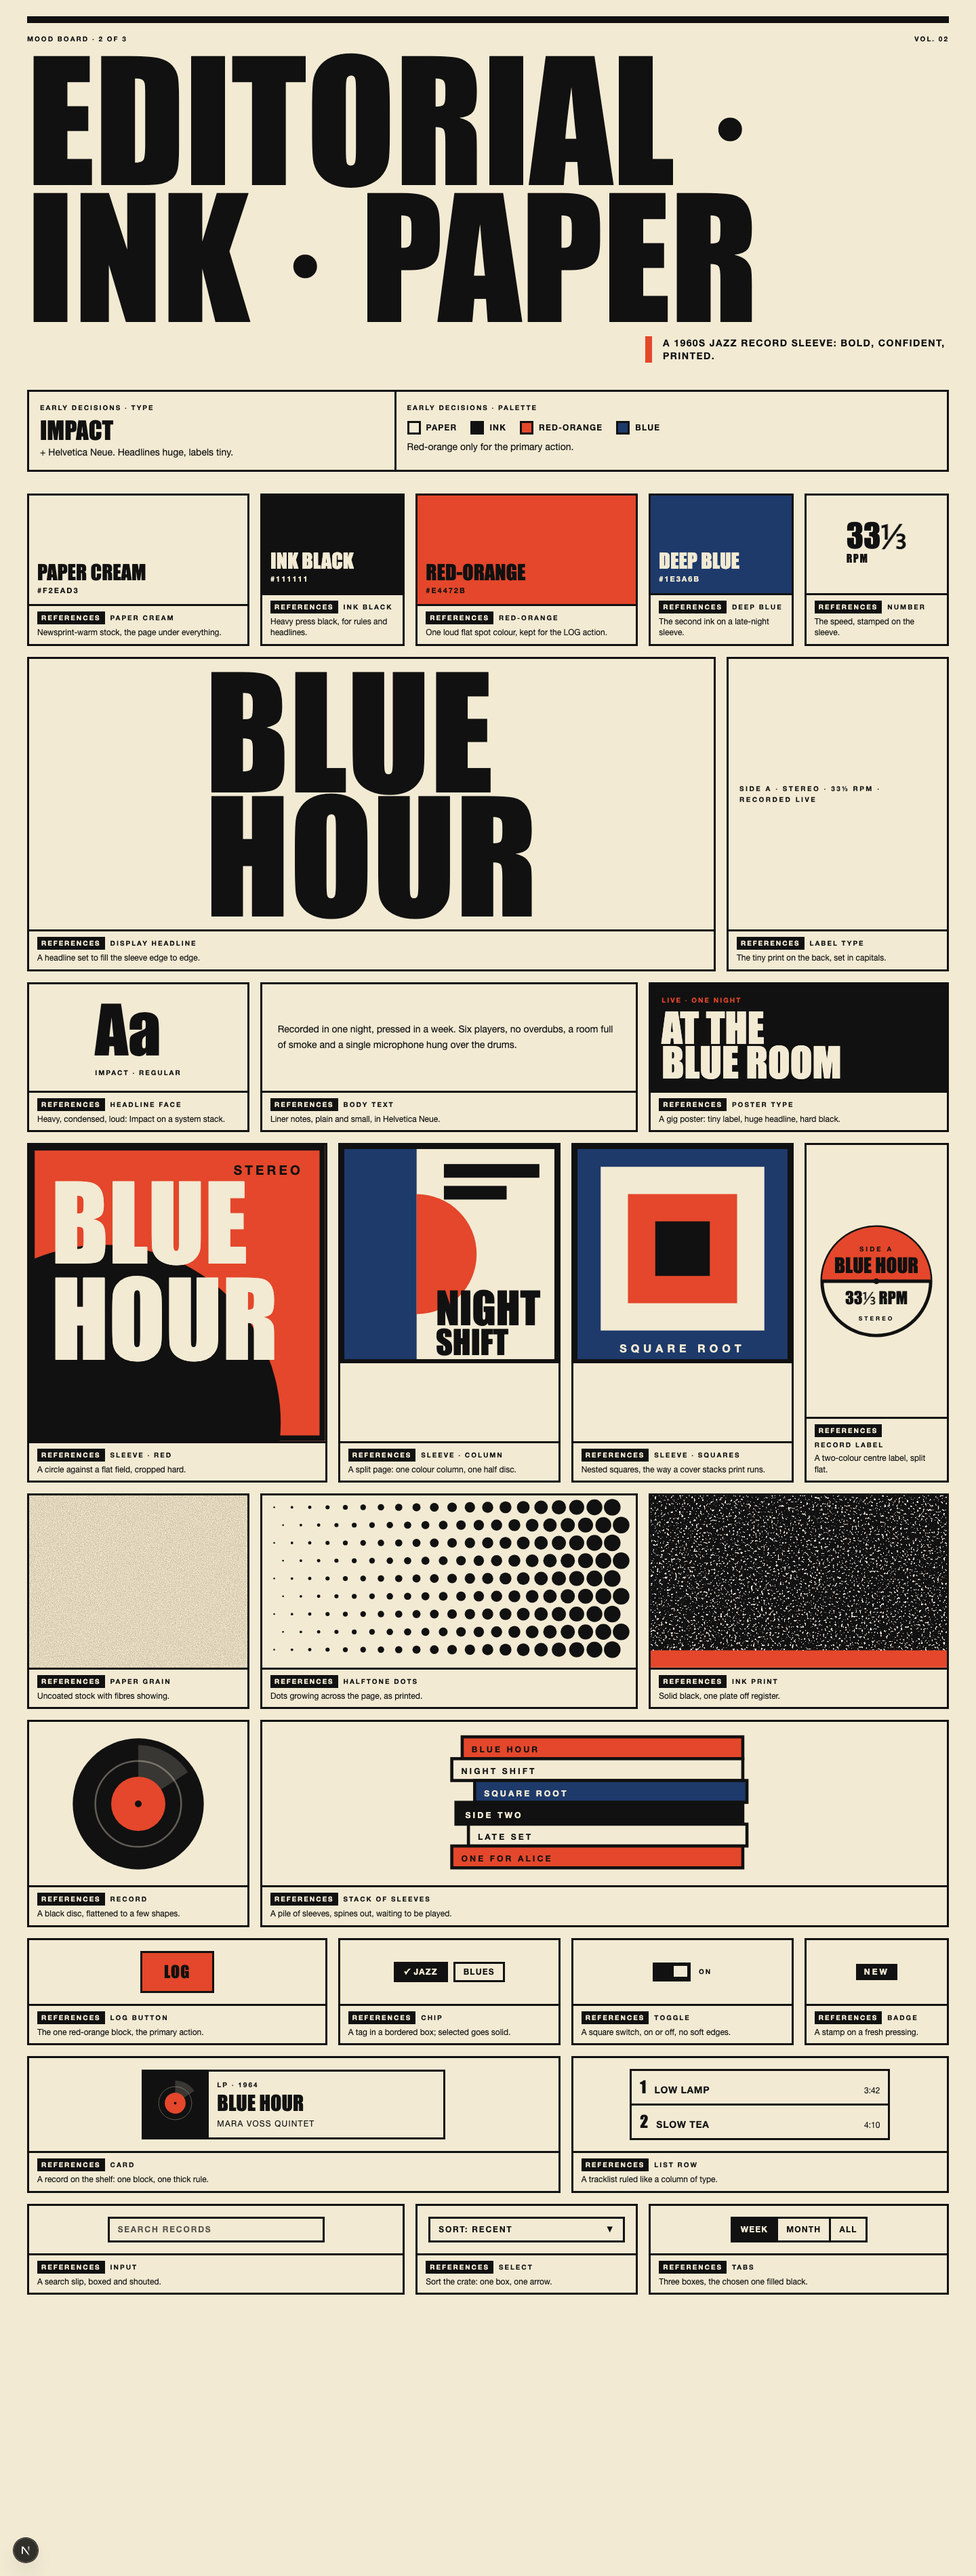
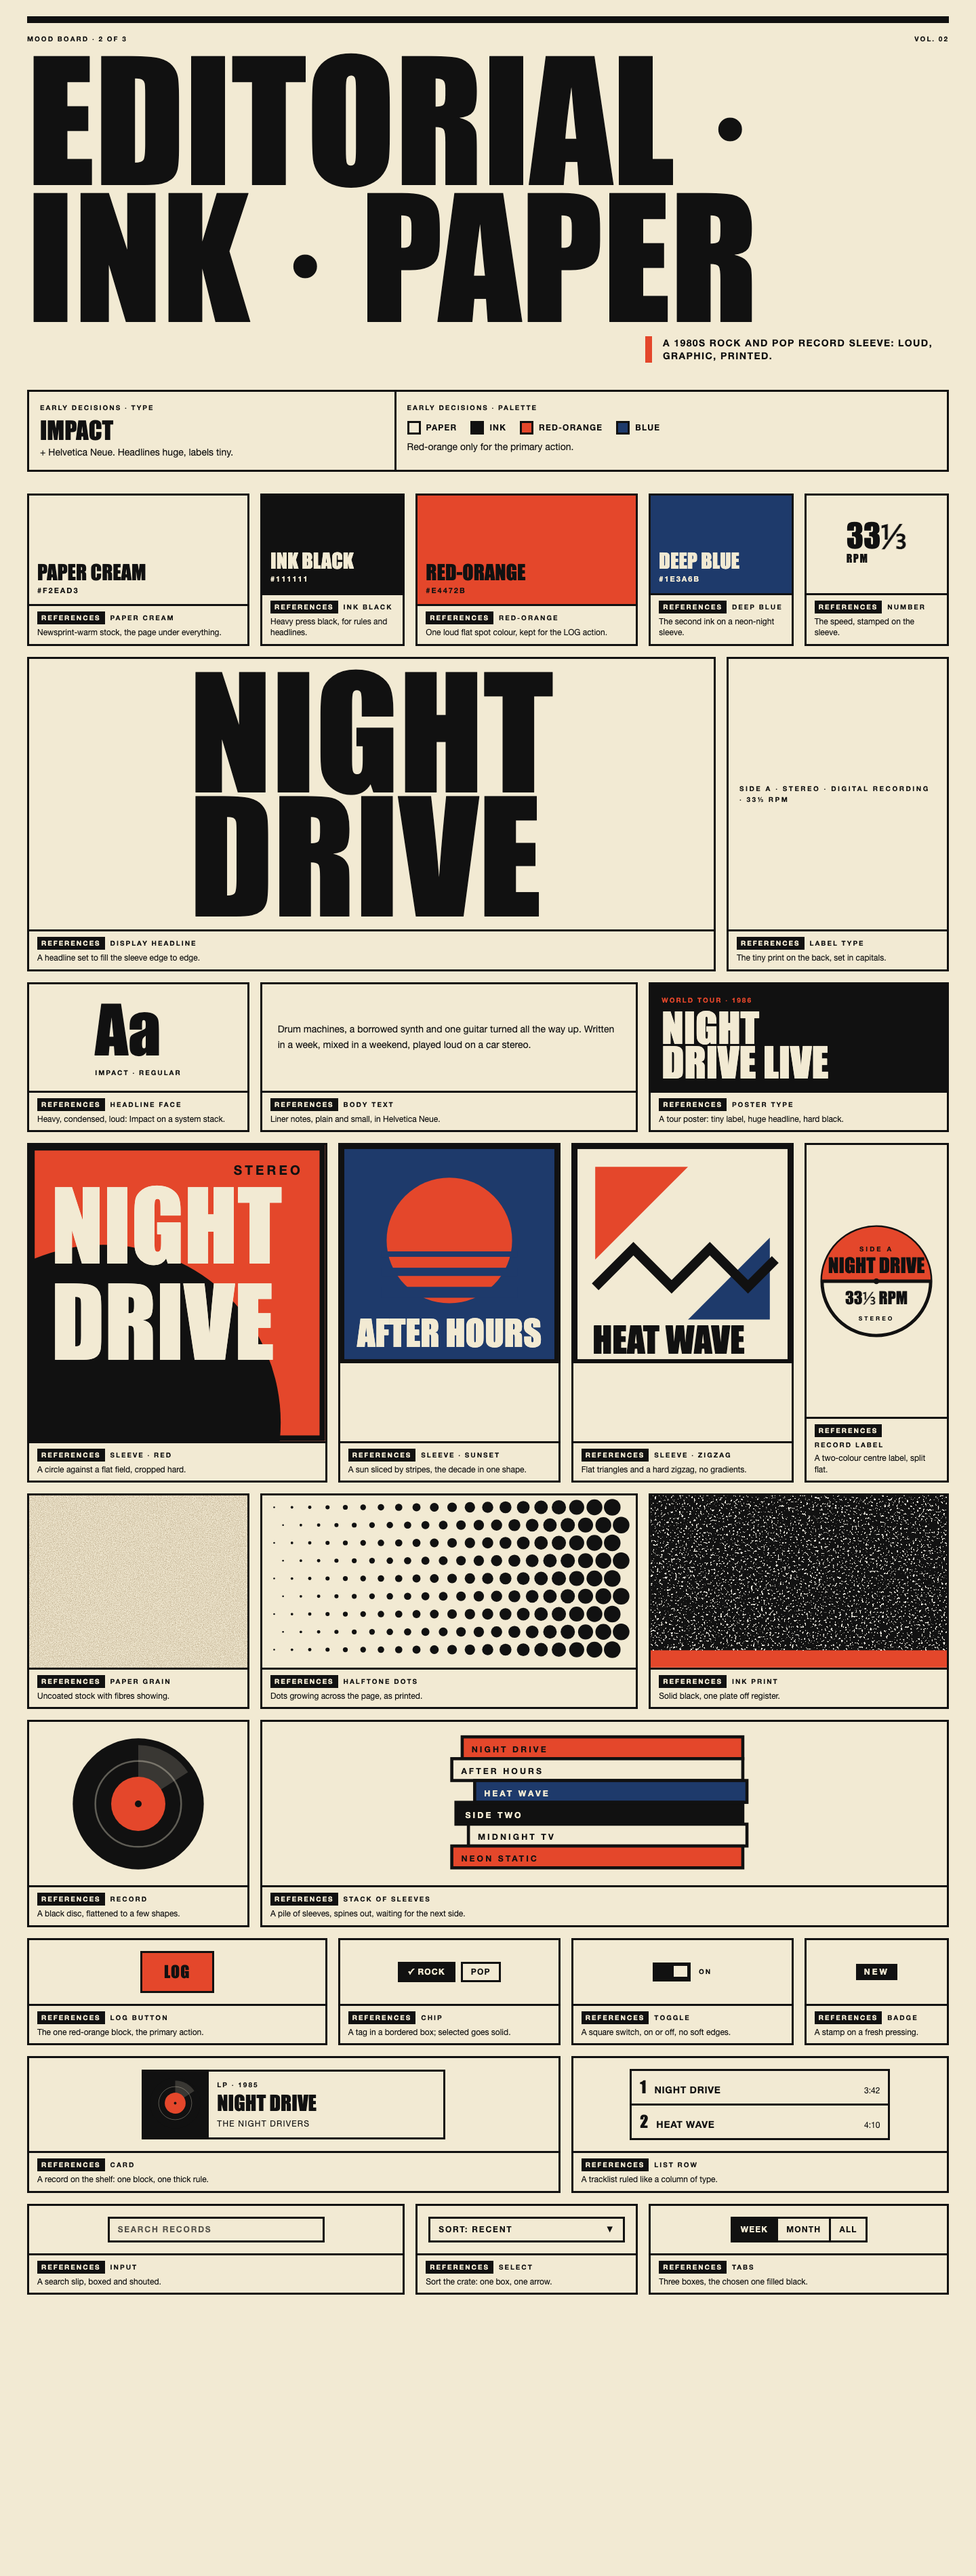
Retheme Editorial mood board to 1980s rock and pop

diff --git a/app/mood-boards/editorial/page.tsx b/app/mood-boards/editorial/page.tsx
@@ -49,7 +49,7 @@ const ARTIFACTS: Artifact[] = [
   swatch("Paper cream", "#F2EAD3", "Newsprint-warm stock, the page under everything.", "bg-paper", false, 3),
   swatch("Ink black", "#111111", "Heavy press black, for rules and headlines.", "bg-press", true, 2),
   swatch("Red-orange", "#E4472B", "One loud flat spot colour, kept for the LOG action.", "bg-signal", false, 3),
-  swatch("Deep blue", "#1E3A6B", "The second ink on a late-night sleeve.", "bg-navy", true, 2),
+  swatch("Deep blue", "#1E3A6B", "The second ink on a neon-night sleeve.", "bg-navy", true, 2),
   {
     name: "Number",
     base: 1,
@@ -69,7 +69,7 @@ const ARTIFACTS: Artifact[] = [
     md: 6,
     xl: 9,
     ref: "A headline set to fill the sleeve edge to edge.",
-    node: <p className="font-display text-[26vw] uppercase leading-[0.82] md:text-[10rem] xl:text-[14rem]">Blue<br />Hour</p>,
+    node: <p className="font-display text-[26vw] uppercase leading-[0.82] md:text-[10rem] xl:text-[14rem]">Night<br />Drive</p>,
   },
   {
     name: "Label type",
@@ -77,7 +77,7 @@ const ARTIFACTS: Artifact[] = [
     md: 3,
     xl: 3,
     ref: "The tiny print on the back, set in capitals.",
-    node: <p className="text-[10px] font-bold uppercase leading-relaxed tracking-[0.25em]">Side A · Stereo · 33⅓ RPM · Recorded live</p>,
+    node: <p className="text-[10px] font-bold uppercase leading-relaxed tracking-[0.25em]">Side A · Stereo · Digital recording · 33⅓ RPM</p>,
   },
   {
     name: "Headline face",
@@ -100,7 +100,7 @@ const ARTIFACTS: Artifact[] = [
     ref: "Liner notes, plain and small, in Helvetica Neue.",
     node: (
       <p className="max-w-prose text-sm leading-relaxed">
-        Recorded in one night, pressed in a week. Six players, no overdubs, a room full of smoke and a single microphone hung over the drums.
+        Drum machines, a borrowed synth and one guitar turned all the way up. Written in a week, mixed in a weekend, played loud on a car stereo.
       </p>
     ),
   },
@@ -109,24 +109,24 @@ const ARTIFACTS: Artifact[] = [
     base: 2,
     md: 3,
     xl: 4,
-    ref: "A gig poster: tiny label, huge headline, hard black.",
+    ref: "A tour poster: tiny label, huge headline, hard black.",
     bg: "bg-press text-paper",
     node: (
       <div className="w-full">
-        <p className={`${label} text-signal`}>Live · One night</p>
-        <p className="mt-2 font-display text-6xl uppercase leading-[0.85]">At the<br />Blue Room</p>
+        <p className={`${label} text-signal`}>World tour · 1986</p>
+        <p className="mt-2 font-display text-6xl uppercase leading-[0.85]">Night<br />Drive Live</p>
       </div>
     ),
   },
   { name: "Sleeve · Red", base: 1, md: 3, xl: 4, ref: "A circle against a flat field, cropped hard.", bare: true, node: <SleeveRed /> },
-  { name: "Sleeve · Column", base: 1, md: 3, xl: 3, ref: "A split page: one colour column, one half disc.", bare: true, node: <SleeveBlue /> },
-  { name: "Sleeve · Squares", base: 1, md: 3, xl: 3, ref: "Nested squares, the way a cover stacks print runs.", bare: true, node: <SleeveSquares /> },
+  { name: "Sleeve · Sunset", base: 1, md: 3, xl: 3, ref: "A sun sliced by stripes, the decade in one shape.", bare: true, node: <SleeveBlue /> },
+  { name: "Sleeve · Zigzag", base: 1, md: 3, xl: 3, ref: "Flat triangles and a hard zigzag, no gradients.", bare: true, node: <SleeveSquares /> },
   { name: "Record label", base: 1, md: 3, xl: 2, ref: "A two-colour centre label, split flat.", node: <RecordLabel /> },
   { name: "Paper grain", base: 2, md: 3, xl: 3, ref: "Uncoated stock with fibres showing.", bare: true, node: <PaperGrain /> },
   { name: "Halftone dots", base: 2, md: 3, xl: 5, ref: "Dots growing across the page, as printed.", bare: true, node: <Halftone /> },
   { name: "Ink print", base: 2, md: 3, xl: 4, ref: "Solid black, one plate off register.", bare: true, node: <InkPrint /> },
   { name: "Record", base: 2, md: 3, xl: 3, ref: "A black disc, flattened to a few shapes.", node: <FlatRecord /> },
-  { name: "Stack of sleeves", base: 2, md: 6, xl: 9, ref: "A pile of sleeves, spines out, waiting to be played.", node: <SleeveStack /> },
+  { name: "Stack of sleeves", base: 2, md: 6, xl: 9, ref: "A pile of sleeves, spines out, waiting for the next side.", node: <SleeveStack /> },
   {
     name: "LOG button",
     base: 2,
@@ -147,8 +147,8 @@ const ARTIFACTS: Artifact[] = [
     ref: "A tag in a bordered box; selected goes solid.",
     node: (
       <div className="flex flex-wrap gap-2">
-        <span className="border-[3px] border-press bg-press px-3 py-1 text-xs font-black uppercase tracking-widest text-paper">✓ Jazz</span>
-        <span className="border-[3px] border-press px-3 py-1 text-xs font-black uppercase tracking-widest">Blues</span>
+        <span className="border-[3px] border-press bg-press px-3 py-1 text-xs font-black uppercase tracking-widest text-paper">✓ Rock</span>
+        <span className="border-[3px] border-press px-3 py-1 text-xs font-black uppercase tracking-widest">Pop</span>
       </div>
     ),
   },
@@ -187,9 +187,9 @@ const ARTIFACTS: Artifact[] = [
           <FlatRecord />
         </div>
         <div className="p-3">
-          <p className={label}>LP · 1964</p>
-          <p className="mt-1 font-display text-3xl uppercase leading-none">Blue Hour</p>
-          <p className="mt-2 text-xs uppercase tracking-widest">Mara Voss Quintet</p>
+          <p className={label}>LP · 1985</p>
+          <p className="mt-1 font-display text-3xl uppercase leading-none">Night Drive</p>
+          <p className="mt-2 text-xs uppercase tracking-widest">The Night Drivers</p>
         </div>
       </div>
     ),
@@ -203,8 +203,8 @@ const ARTIFACTS: Artifact[] = [
     node: (
       <ul className="w-full max-w-sm border-[3px] border-press">
         {[
-          ["1", "Low Lamp", "3:42"],
-          ["2", "Slow Tea", "4:10"],
+          ["1", "Night Drive", "3:42"],
+          ["2", "Heat Wave", "4:10"],
         ].map(([n, t, d]) => (
           <li key={n} className="flex items-baseline gap-3 border-b-[3px] border-press px-3 py-2 last:border-b-0">
             <span className="font-display text-2xl">{n}</span>
@@ -265,7 +265,7 @@ export default function EditorialMoodBoard() {
             Editorial · Ink · Paper
           </h1>
           <p className="mt-4 max-w-md border-l-[10px] border-signal pl-4 text-sm font-bold uppercase leading-snug tracking-widest md:ml-auto md:mr-0">
-            A 1960s jazz record sleeve: bold, confident, printed.
+            A 1980s rock and pop record sleeve: loud, graphic, printed.
           </p>
         </header>
 

diff --git a/app/mood-boards/editorial/art.tsx b/app/mood-boards/editorial/art.tsx
@@ -6,11 +6,11 @@ const PLAIN = "'Helvetica Neue', Arial, sans-serif";
 
 export function SleeveRed() {
   return (
-    <svg viewBox="0 0 160 160" className="w-full" role="img" aria-label="Original sleeve: red field, black circle, BLUE HOUR in cream">
+    <svg viewBox="0 0 160 160" className="w-full" role="img" aria-label="Original sleeve: red field, black circle, NIGHT DRIVE in cream">
       <rect width="160" height="160" fill={E.red} />
       <circle cx="40" cy="150" r="96" fill={E.ink} />
-      <text x="12" y="64" fontFamily={DISPLAY} fontSize="56" fill={E.paper}>BLUE</text>
-      <text x="12" y="116" fontFamily={DISPLAY} fontSize="56" fill={E.paper}>HOUR</text>
+      <text x="12" y="64" fontFamily={DISPLAY} fontSize="52" fill={E.paper}>NIGHT</text>
+      <text x="12" y="116" fontFamily={DISPLAY} fontSize="52" fill={E.paper}>DRIVE</text>
       <text x="148" y="16" textAnchor="end" fontFamily={PLAIN} fontWeight="700" fontSize="7" letterSpacing="1.5" fill={E.ink}>STEREO</text>
       <rect x="1.5" y="1.5" width="157" height="157" fill="none" stroke={E.ink} strokeWidth="3" />
     </svg>
@@ -19,14 +19,13 @@ export function SleeveRed() {
 
 export function SleeveBlue() {
   return (
-    <svg viewBox="0 0 160 160" className="w-full" role="img" aria-label="Original sleeve: blue column, red half circle, NIGHT SHIFT">
-      <rect width="160" height="160" fill={E.paper} />
-      <rect width="56" height="160" fill={E.blue} />
-      <path d="M56 36 A44 44 0 0 1 56 124 Z" fill={E.red} />
-      <rect x="76" y="14" width="70" height="10" fill={E.ink} />
-      <rect x="76" y="30" width="46" height="10" fill={E.ink} />
-      <text x="70" y="132" fontFamily={DISPLAY} fontSize="32" fill={E.ink}>NIGHT</text>
-      <text x="70" y="154" fontFamily={DISPLAY} fontSize="24" fill={E.ink}>SHIFT</text>
+    <svg viewBox="0 0 160 160" className="w-full" role="img" aria-label="Original sleeve: red sun cut by stripes on blue, AFTER HOURS">
+      <rect width="160" height="160" fill={E.blue} />
+      <circle cx="80" cy="70" r="46" fill={E.red} />
+      <rect x="30" y="78" width="100" height="4" fill={E.blue} />
+      <rect x="30" y="90" width="100" height="6" fill={E.blue} />
+      <rect x="30" y="104" width="100" height="8" fill={E.blue} />
+      <text x="80" y="148" textAnchor="middle" fontFamily={DISPLAY} fontSize="26" fill={E.paper}>AFTER HOURS</text>
       <rect x="1.5" y="1.5" width="157" height="157" fill="none" stroke={E.ink} strokeWidth="3" />
     </svg>
   );
@@ -34,12 +33,12 @@ export function SleeveBlue() {
 
 export function SleeveSquares() {
   return (
-    <svg viewBox="0 0 160 160" className="w-full" role="img" aria-label="Original sleeve: nested squares, SQUARE ROOT">
-      <rect width="160" height="160" fill={E.blue} />
-      <rect x="20" y="16" width="120" height="120" fill={E.paper} />
-      <rect x="40" y="36" width="80" height="80" fill={E.red} />
-      <rect x="60" y="56" width="40" height="40" fill={E.ink} />
-      <text x="80" y="152" textAnchor="middle" fontFamily={PLAIN} fontWeight="700" fontSize="8" letterSpacing="3" fill={E.paper}>SQUARE ROOT</text>
+    <svg viewBox="0 0 160 160" className="w-full" role="img" aria-label="Original sleeve: triangles and a zigzag, HEAT WAVE">
+      <rect width="160" height="160" fill={E.paper} />
+      <polygon points="16,16 84,16 16,84" fill={E.red} />
+      <polygon points="144,128 84,128 144,68" fill={E.blue} />
+      <polyline points="16,104 44,76 72,104 100,76 128,104 148,84" fill="none" stroke={E.ink} strokeWidth="7" strokeLinejoin="miter" />
+      <text x="14" y="153" fontFamily={DISPLAY} fontSize="26" fill={E.ink}>HEAT WAVE</text>
       <rect x="1.5" y="1.5" width="157" height="157" fill="none" stroke={E.ink} strokeWidth="3" />
     </svg>
   );
@@ -64,7 +63,7 @@ export function RecordLabel() {
       <path d="M4 70 A66 66 0 0 1 136 70 Z" fill={E.red} />
       <line x1="4" y1="70" x2="136" y2="70" stroke={E.ink} strokeWidth="4" />
       <text x="70" y="34" textAnchor="middle" fontFamily={PLAIN} fontWeight="700" fontSize="8" letterSpacing="2.5" fill={E.ink}>SIDE A</text>
-      <text x="70" y="60" textAnchor="middle" fontFamily={DISPLAY} fontSize="24" fill={E.ink}>BLUE HOUR</text>
+      <text x="70" y="60" textAnchor="middle" fontFamily={DISPLAY} fontSize="24" fill={E.ink}>NIGHT DRIVE</text>
       <text x="70" y="98" textAnchor="middle" fontFamily={DISPLAY} fontSize="20" fill={E.ink}>33⅓ RPM</text>
       <text x="70" y="118" textAnchor="middle" fontFamily={PLAIN} fontWeight="700" fontSize="7" letterSpacing="2.5" fill={E.ink}>STEREO</text>
       <circle cx="70" cy="70" r="3.5" fill={E.ink} />
@@ -74,12 +73,12 @@ export function RecordLabel() {
 
 export function SleeveStack() {
   const rows = [
-    { c: E.red, t: E.ink, x: 10, w: 270, label: "BLUE HOUR" },
-    { c: E.paper, t: E.ink, x: 0, w: 280, label: "NIGHT SHIFT" },
-    { c: E.blue, t: E.paper, x: 22, w: 262, label: "SQUARE ROOT" },
+    { c: E.red, t: E.ink, x: 10, w: 270, label: "NIGHT DRIVE" },
+    { c: E.paper, t: E.ink, x: 0, w: 280, label: "AFTER HOURS" },
+    { c: E.blue, t: E.paper, x: 22, w: 262, label: "HEAT WAVE" },
     { c: E.ink, t: E.paper, x: 4, w: 276, label: "SIDE TWO" },
-    { c: E.paper, t: E.ink, x: 16, w: 268, label: "LATE SET" },
-    { c: E.red, t: E.ink, x: 0, w: 280, label: "ONE FOR ALICE" },
+    { c: E.paper, t: E.ink, x: 16, w: 268, label: "MIDNIGHT TV" },
+    { c: E.red, t: E.ink, x: 0, w: 280, label: "NEON STATIC" },
   ];
   return (
     <svg viewBox="0 0 300 136" className="w-full max-w-[460px]" role="img" aria-label="A stack of record sleeves seen from the side">
